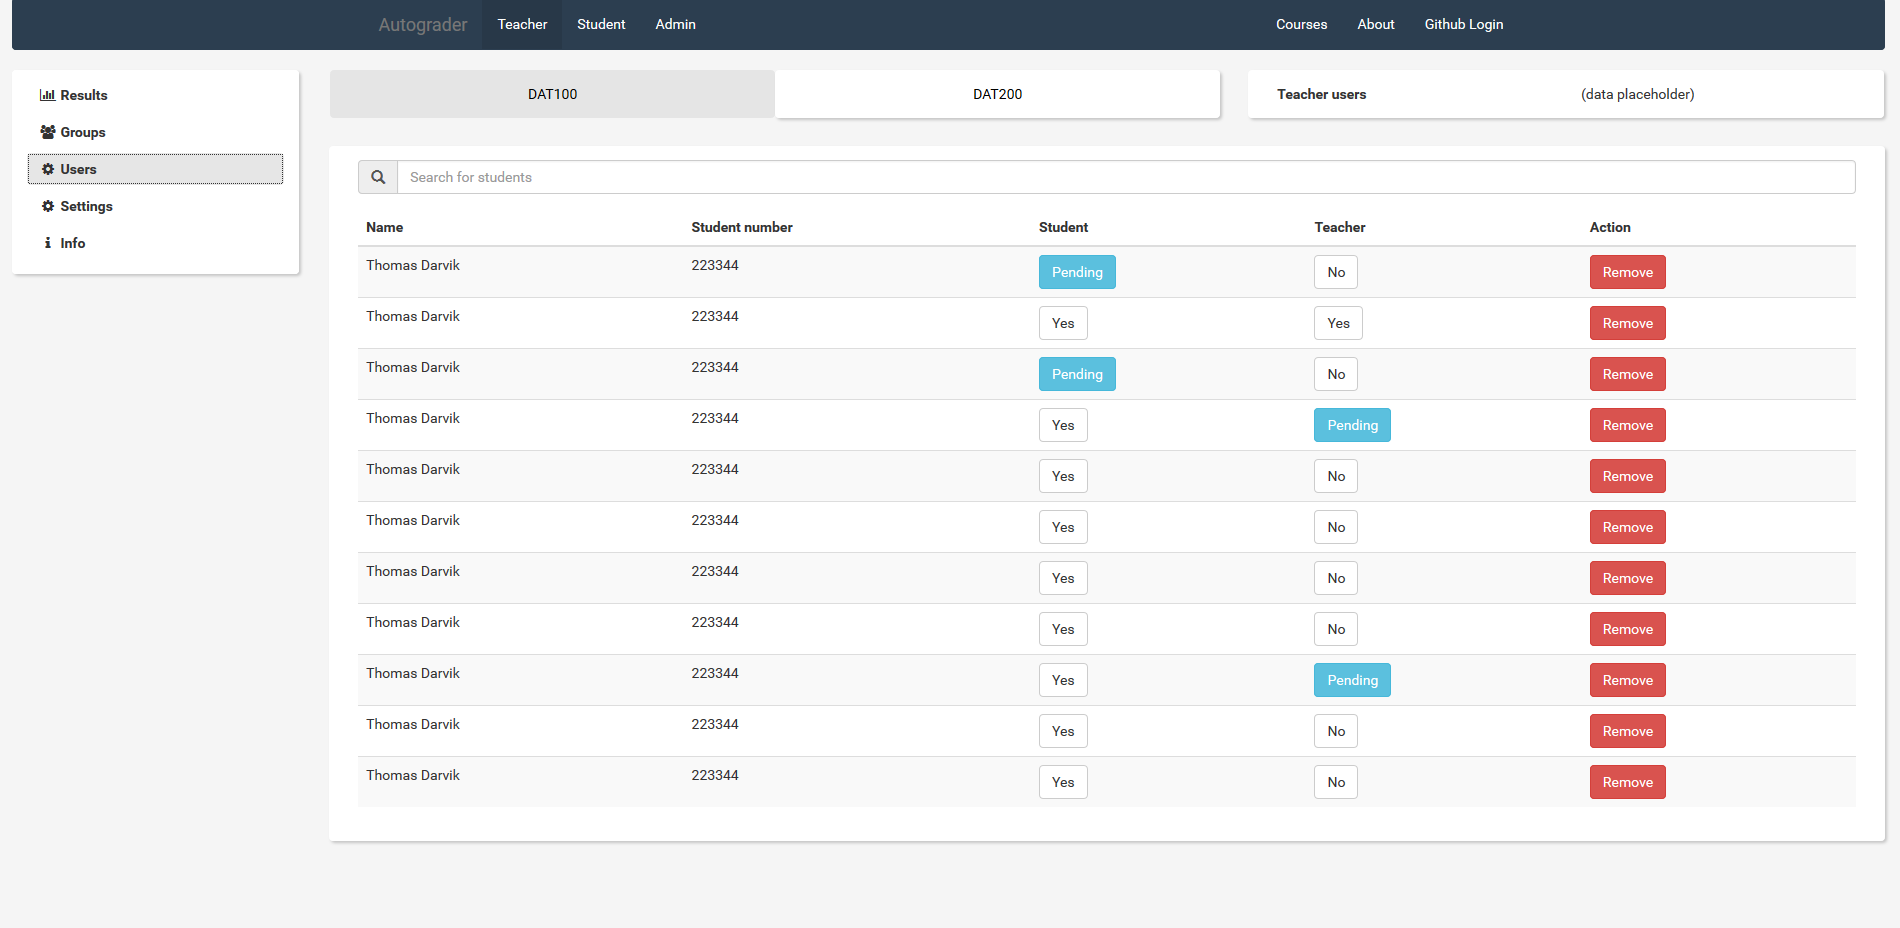
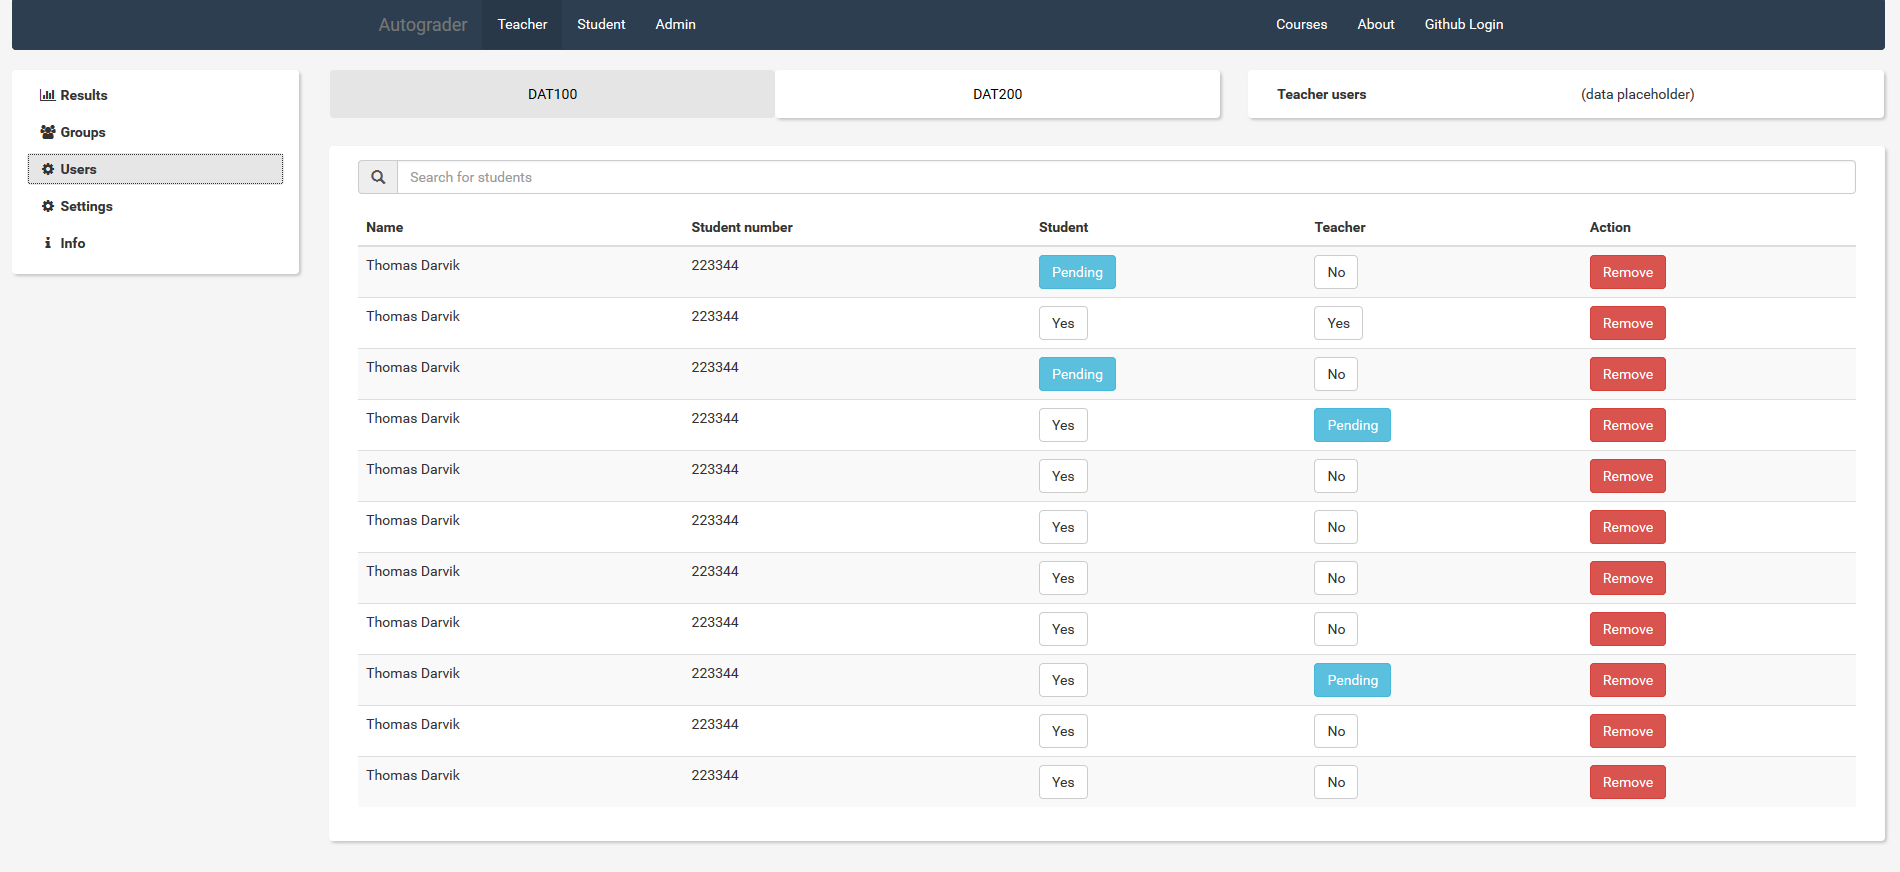
fully merged and rev

diff --git a/files/chapters/design/design.tex b/files/chapters/design/design.tex
@@ -8,12 +8,13 @@ To make it as simple as possible to follow our implementation and design decisio
 ReactJS or React has been chosen as the main library for building the UI of the new Autograder. Traditional UI for the web follows a pattern called MVC, which stands for Model-view-controller. The model usually represents a dataset, while the view is the user interface. The controller handles the data between the model and the view. The team behind React chose to use Flux as the main design pattern for React. It is possible to use a MVC-type pattern for simple components, but as we experienced, it gets tricky when the application grows. The next part of the chapter will describe how Flux works compared to MVC.
 Flux is a relatively new way of imagining data flow in web applications. MVC has been the most common pattern both for desktop-applications, as well as web pages. Flux brings a lot of new ideas to the table, by utilizing a unidirectional data-flow. Unlike MVC, Flux is not an acronym. Flux is comprised of a view, dispatcher, action-creator and a store. As with MVC, the View is the interface. The dispatcher is a very simple mechanisme for distributing the actions through the system. The action-creator and actions are methods for updating or calling functions through the dispatcher. The actions and dispatcher work together to handle input from users, such as clicks and other inputs. The store is the central place where data is stored. It contains data from the server, as well as logic for building user interfaces. The store is not the backend of the system. One can imaging it as a layer between the server-side logic and the frontend. The store does not hold any more data than a normal frontend does.
 \worry{Ref to the advanced ReactJS performance page; facebook.github.io/react/docs/advanced-performance}
- The initial research for a design pattern that fit ReactJS resulted in reading articles comparing the two. However, it was never clearly stated why the React-team used Flux instead of the more traditional MVC. ReactJS controls the view of the application. With no clear picture, the initial test using a MVC way of thinking, resulted in applications that worked OK, but were obviously missing parts. After some testing, Flux seemed to fix many of these problems, however, it requires time to set up correctly. Even though Autograder is not as huge and complicated as some sites its still not a small application. There are many elements that depend on data from different places. One example would be the main part of the Autograder which is the lab overview where teachers can have an easy access to all the assignments and see individual results. 
+The initial research for a design pattern that fit ReactJS resulted in reading articles comparing the two. However, it was never clearly stated why the React-team used Flux instead of the more traditional MVC. ReactJS controls the view of the application. With no clear picture, the initial test using a MVC way of thinking, resulted in applications that worked OK, but were obviously missing parts. After some testing, Flux seemed to fix many of these problems, however, it requires time to set up correctly. Even though Autograder is not as huge and complicated as some sites its still not a small application. There are many elements that depend on data from different places.One example would be the main part of the Autograder which is the lab overview where teachers can have an easy access to all the assignments and see individual results.
 \begin{figure}[h]
   {\includegraphics[width=1\linewidth]{laboverviewteacher}}
   \caption{The view that teacher sees when looking at all the labs in a given course}
-  \label{fig:laboverwievteacher}
+  \label{fig:laboverviewteacher}
 \end{figure}
+\newpage
 The center section is a table of all the lab results for every student, to the right there is a expanded view of a selected lab (marked with gray).
 Simple flowchart represented with MVC style design:
 \begin{figure}[h]
@@ -21,14 +22,14 @@ Simple flowchart represented with MVC style design:
 \input{./graphs/modelmvc.tex}
 \caption{Example of how the MVC architecture behaves}
 \end{figure}
-In short, the figure represents only one specific case for implementing certain functionality, there is no general pattern in which data flows through the system, in this case: views signal controller, controller updates model, model notifies about its changes to the controller, then the controller updates the views. This is pretty straight forward, but as the application grows and more components and interactive elements are added it may be difficult to visualize the flow.
+\\In short, the figure represents only one specific case for implementing certain functionality, there is no general pattern in which data flows through the system, in this case: views signal controller, controller updates model, model notifies about its changes to the controller, then the controller updates the views. This is pretty straight forward, but as the application grows and more components and interactive elements are added it may be difficult to visualize the flow.
 \\Flux was design with simplicity in mind, although the pattern may not be as different from MVC at first, key difference is that in Flux the data flow is defined, and every action is forced to the beginning of the system:
 \begin{figure}[h]
 \centering
 \scalebox{0.9}{\input{./graphs/modelflux.tex}}
 \caption{General data flows in Flux architecture}
 \end{figure}
-Here a user action is triggered, the dispatcher which is a global central hub of the system, reads what \emph{type} of action is being sent, and notifies the stores about it. Each store represents the data for one or many views, its not a direct mapping of how the data is stored on the server, but it manages itself in a way to represent the data any associated views might need. When an action is triggered and reaches store, store then updates itself with the \emph{change} that was associated with the action, when it is done, it notifies the views about the change. Views when they get notified, they get the data from the stores by accessing it through public store getter methods.
+\\Here a user action is triggered, the dispatcher which is a global central hub of the system, reads what \emph{type} of action is being sent, and notifies the stores about it. Each store represents the data for one or many views, its not a direct mapping of how the data is stored on the server, but it manages itself in a way to represent the data any associated views might need. When an action is triggered and reaches store, store then updates itself with the \emph{change} that was associated with the action, when it is done, it notifies the views about the change. Views when they get notified, they get the data from the stores by accessing it through public store getter methods.
 This pattern is very scalable, if we were to add more components, by looking at the graph we only need another box, that sends a User action that will further down the graph modify new or the same store. It becomes easier to manage different components, because everything will at some point go through that central hub called the Dispatcher, this is the starting point of every new \emph{state} that the component is in. Since every feature follows same pattern, its easy to grasp the general idea of the application by looking at any particular implementation of any feature, and replicate it with ease. The main difference between Flux and MVC is that flux forces unidirectional dataflow, this might seem unnecessary at first, and it is when it comes to small applications, but nevertheless it simplifies the maintenance of the codebase in the long run.
 
 \subsection{Why Flux}
@@ -36,27 +37,37 @@ Flux, like MVC, is just a pattern (think blueprint). It shows how the data will 
 \worry{Write more here..}
 
 \section{Design}
+This section describes thoughts begind the structure of user interface, and decisions that led to the current look, what technological decisions were made to achieve responsive UI, and a bit about the design process of the UI.
 \subsection{User Interface Design}
-The focus of new design lays in improving the user experience. Users of previous system, have shown dislike towards the UI design choices. The system is designed is such a way so that both students and teachers have intuitive access to the parts of the system that they use most frequently. There exists student section, teacher section, and also admin section, these major sections are designed so that it is obvious what parts of the system you have access to from the current section you are in. having Autograder in teacher mode, one can easily create a new course and rename it, GitHub integration \ref{gihubintegration} takes care of creating and managing the repositories needed in that course, initial setup of a course is done through a course settings page. The management of students that have joined the course, involves actions like organizing groups, expelling students and approving new students who joined the course, these can be done in the groups page and users page through easily accessible navigation.
+The focus of new design lays in improving the user experience. Users of previous system, have shown dislike towards the UI design choices. The system is designed is such a way so that both students and teachers have intuitive access to the parts of the system that they use most frequently. There exists student section, teacher section, and also admin section, these major sections are designed so that it is obvious what parts of the system you have access to from the current section you are in. having Autograder in teacher mode, one can easily create a new course and rename it, GitHub integration \ref{gihubintegration} takes care of creating and managing the repositories needed in that course, initial setup of a course is done through a course settings page. The management of students that have joined the course, involves actions like organizing groups, expelling students and approving new students who joined the course, these can be done in the groups page \ref{fig:grouppageteacher} and users page \ref{fig:teacherpage} through easily accessible navigation.
 \begin{figure}[h]
- \scalebox{0.8}{{\includegraphics[width=1\linewidth]{graphs/teacher.png}}}
+ \scalebox{1}[0.9]{{\includegraphics[width=1\linewidth]{graphs/teacher.png}}}
   \caption{Teachers user management panel, for approveing TA's and students}
   \label{fig:teacherpage}
 \end{figure}
-Most used functionality, by both teachers and teaching assistants is course lab overview. This results page lets a teacher quickly skim through all the students and look if anyone hasn't delivered their assignment yet, or see the score of each assignment, from there, it is also possible to approve or reject any given lab assignment. Another function is to be able to easily control group assignments, and assign students to specific groups. In the groups page, there exists a user friendly interface for creating new groups and adding available students to any given group, users can be notified about which group they have been assigned to, similarly, students can easily create groups that need to be approved by the teachers.
-\\Students will utilize Autograder mainly for checking if their assignment has been approved. The default page for student section is lab overview, in there one can see the current assignment and its progress, it is also worth mentioning that usually one student wont be using Autograder in more than one course, but the system is designed for easy switch between different courses by using tabs to switch current page data with the relevant course information.
+\newpage
+Most used functionality, by both teachers and teaching assistants is course lab overview figure \ref{fig:laboverviewteacher}. This results page lets a teacher quickly skim through all the students and look if anyone hasn't delivered their assignment yet, or see the score of each assignment, from there, it is also possible to approve or reject any given lab assignment. Another function is to be able to easily control group assignments, and assign students to specific groups.In the groups page, there exists a user friendly interface for creating new groups and adding available students to any given group, users can be notified about which group they have been assigned to, similarly, students can easily create groups that need to be approved by the teachers.
 \begin{figure}[h]
-  \scalebox{0.8}{{\includegraphics[width=1\linewidth]{graphs/student.png}}}
+ \scalebox{1}[0.9]{{\includegraphics[width=1\linewidth]{graphs/grouppageteacher.png}}}
+  \caption{Teacher group management page}
+  \label{fig:grouppageteacher}
+\end{figure}
+\newpage
+Students will utilize Autograder mainly for checking if their assignment has been approved. The default page for student section is lab overview, in there one can see the current assignment and its progress, it is also worth mentioning that usually one student wont be using Autograder in more than one course, but the system is designed for easy switch between different courses by using tabs to switch current page data with the relevant course information.
+\begin{figure}[h]
+  \scalebox{1}[0.9]{{\includegraphics[width=1\linewidth]{graphs/student.png}}}
   \caption{Student page for lab overview}
   \label{fig:studentpage}
 \end{figure}
+
 There is no distinguished mode for teaching assistant, these are often students that are also registered as teachers in different course, this is where Autograder main sections come in handy, while working as a TA, user can switch to teacher mode and has access to the teachers functionality in the courses he teaches, similarly switching to student mode gives quick access to relevant functions in that mode.
 \\As for admins of the system, there will usually be a handful of users with admin privileges, admins control access to the major sections of Autograder, when a user registers admins can assign teacher permissions for that user to be able to create new organizations and courses, and of course admins can upgrade other users to admins. Besides that there is a settings panel for admins that enables setting up initial setting for Autograder server, like hostname, passwords etc.
 \begin{figure}[h]
- \scalebox{0.8}{ {\includegraphics[width=1\linewidth]{graphs/admin.png}}}
+ \scalebox{1}[0.9]{ {\includegraphics[width=1\linewidth]{graphs/admin.png}}}
   \caption{One of admin settings pages, for changing user permissions}
   \label{fig:adminpage}
 \end{figure}
+\newpage
 \subsection{Planning of software solutions}\label{sec:softwaresolution}
 To achieve the goal of better, quicker and more responsive interface, the front-end application is written in JavaScript. By using new emerging open source technologies and libraries like React.js, it enabled quick and easy way to create a responsive user interface. As mentioned in section \ref{sec:fluxmvc} React takes care of the view - what the user sees, and interacts with. What is missing is something to control the user interface and the data structures that it displays. When the view part is out of the way, a couple of decisions has to be made about the rest of the front-end system, in this case, the application is an alteration of so called "one page app", that means user doesn't see the page refresh on any updates, the twist in this particular implementation of "one page app" is that the user is still provided with the new URL on each state change of the app, this is not usually the case in "on page apps", since change of URL is usually associated with GET request for that address. For this purpose another library was used to help us programmatically change the browsers URL, and associate each state of the app with its own URL. Having access to URL is oftern overlooked, but it is very helpful when users want to share certain parts of the application if they want to link to a specific assignment or course signup page.
 \\How the client communicates with the server is not relevant for the chosen Flux architecture and React.js. The communication implemented in this solution is called WebSocket protocol, in short this protocol establishes a constant connection with the server which is used to transfer data both ways in real time, updates can be send to the client from the server, there is no need for client to poll for any data.
